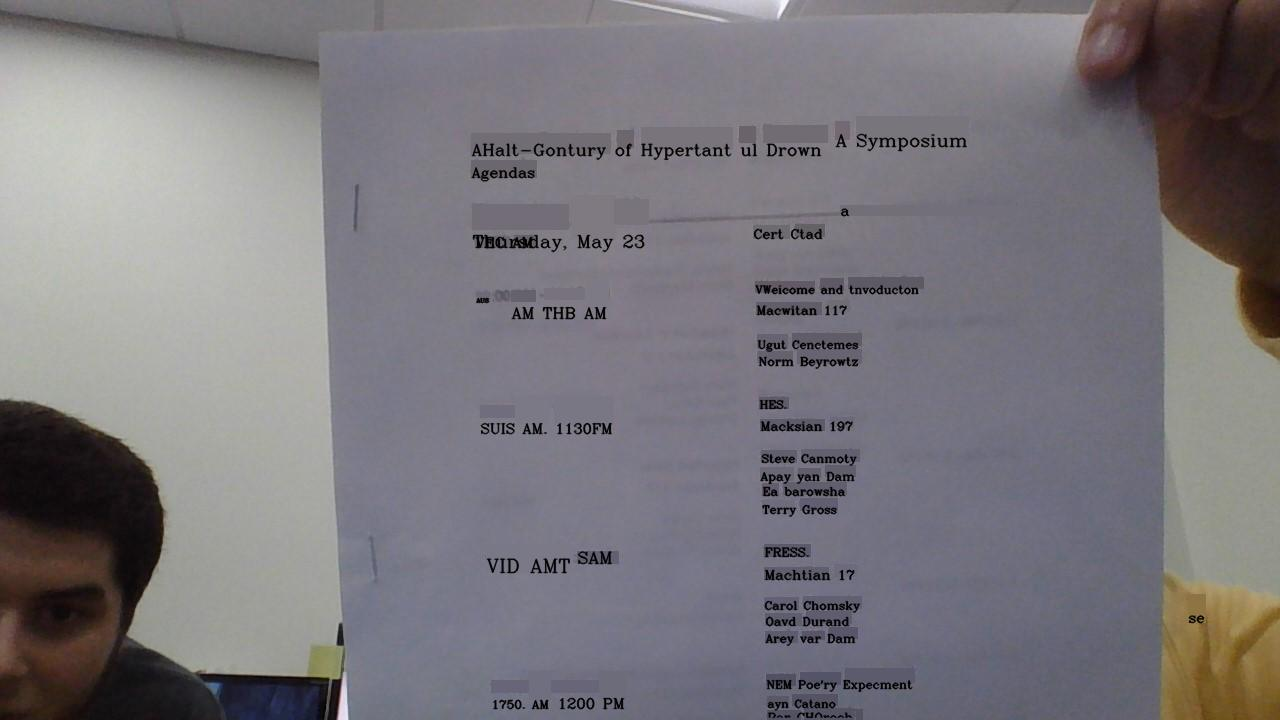
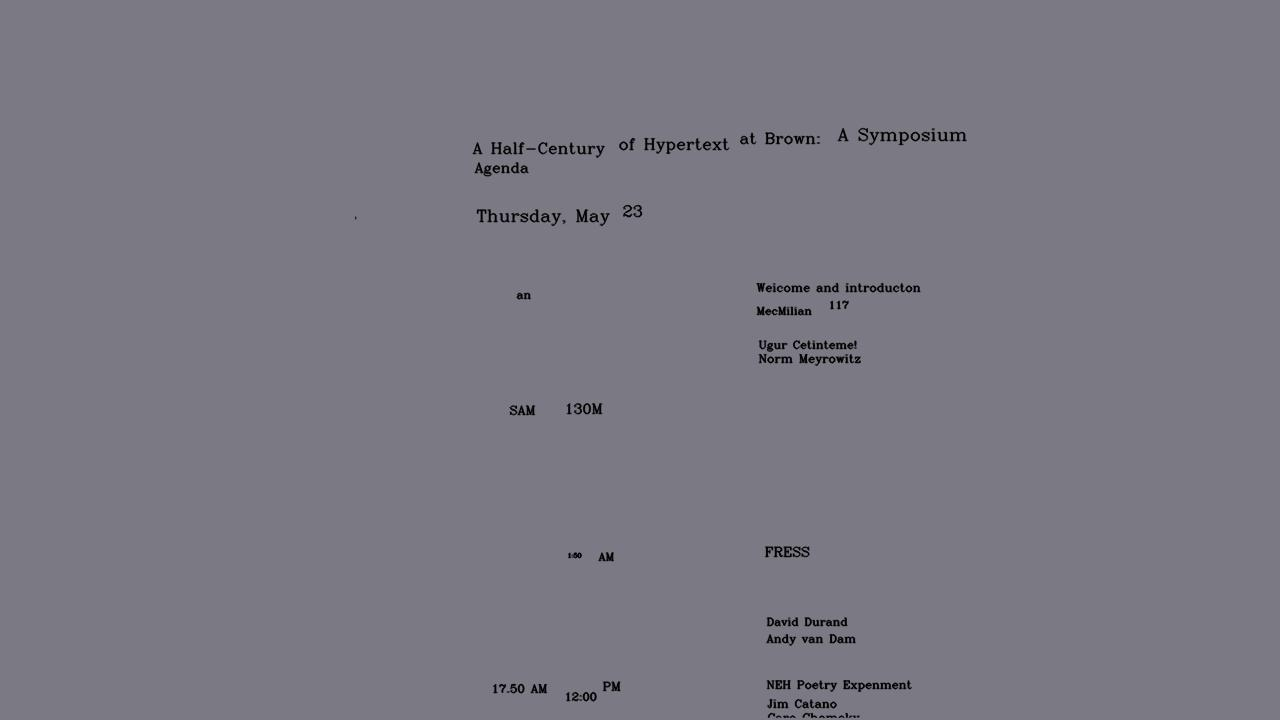
more images

diff --git a/main.py b/main.py
@@ -44,11 +44,11 @@ for filename in os.listdir(directory):
         # Image.fromarray(frame).save("frame.png")
         gray = cv2.cvtColor(frame, cv2.COLOR_BGR2GRAY)
         # gray = cv2.medianBlur(gray, 3)
-        gray = cv2.adaptiveThreshold(gray, 255, cv2.ADAPTIVE_THRESH_GAUSSIAN_C, cv2.THRESH_BINARY, 21, 10)
+        # gray = cv2.adaptiveThreshold(gray, 255, cv2.ADAPTIVE_THRESH_GAUSSIAN_C, cv2.THRESH_BINARY, 21, 10)
         kernel = np.ones((1, 1), np.uint8)
         img = cv2.dilate(gray, kernel, iterations=1)
         img = cv2.erode(img, kernel, iterations=1)
-        img = cv2.bilateralFilter(img, 9, 75, 75)
+        # img = cv2.bilateralFilter(img, 9, 75, 75)
         # cv2.rectangle(img, (267, 256), (267+50, 256+26), (0, 255, 0), 10)
         im = np.array(img)
         # saveim = Image.fromarray(im)
@@ -72,7 +72,7 @@ for filename in os.listdir(directory):
             (x_1, y_1, w, h, text) = (data['left'][i], data['top'][i], data['width'][i], data['height'][i], data['text'][i].encode("utf-8"))
             # y_1 = img.shape[0] - y_1
             # y_2 = img.shape[0] - y_2
-            if (len(text.decode("utf-8").strip()) > 0):
+            if (len(text.decode("utf-8").strip()) > 0 or True):
                 y_2 = y_1 + h
                 x_2 = x_1 + w
                 # print(text)
@@ -90,9 +90,10 @@ for filename in os.listdir(directory):
         sx = 0
         height = 0
         s = ""
+        print("NUMBER OF RESULTS: " + str(n))
         for i in range(n):
             (x_1, y_1, w, h, text) = (data['left'][i], data['top'][i], data['width'][i], data['height'][i], data['text'][i].encode("utf-8"))
-            if len(text.strip()) == 0:
+            if len(text.strip()) == 0 or False:
                 continue
             if x_1 - x < w / 2 and abs(y_1 - y) < h and abs(height - h) < h:
                 s = s + " " + text
@@ -100,7 +101,7 @@ for filename in os.listdir(directory):
                 height = max(h, height)
             else:
                 s = s.strip()
-                if len(s) > 0:
+                if len(s) > 0 or True:
                     # translated = translator.translate(s, dest="es", src="en").text.encode("ascii", errors="ignore")
                     translated = s.decode("ascii", errors="ignore")
                     
@@ -113,7 +114,7 @@ for filename in os.listdir(directory):
                 height = h
                 y = y_1
         s = s.strip()
-        if len(s) > 0:
+        if len(s) > 0 or True:
             # translated = translator.translate(s, dest="es", src="en").text.encode("ascii", errors="ignore")
             translated = s.decode("ascii", errors="ignore")
             
